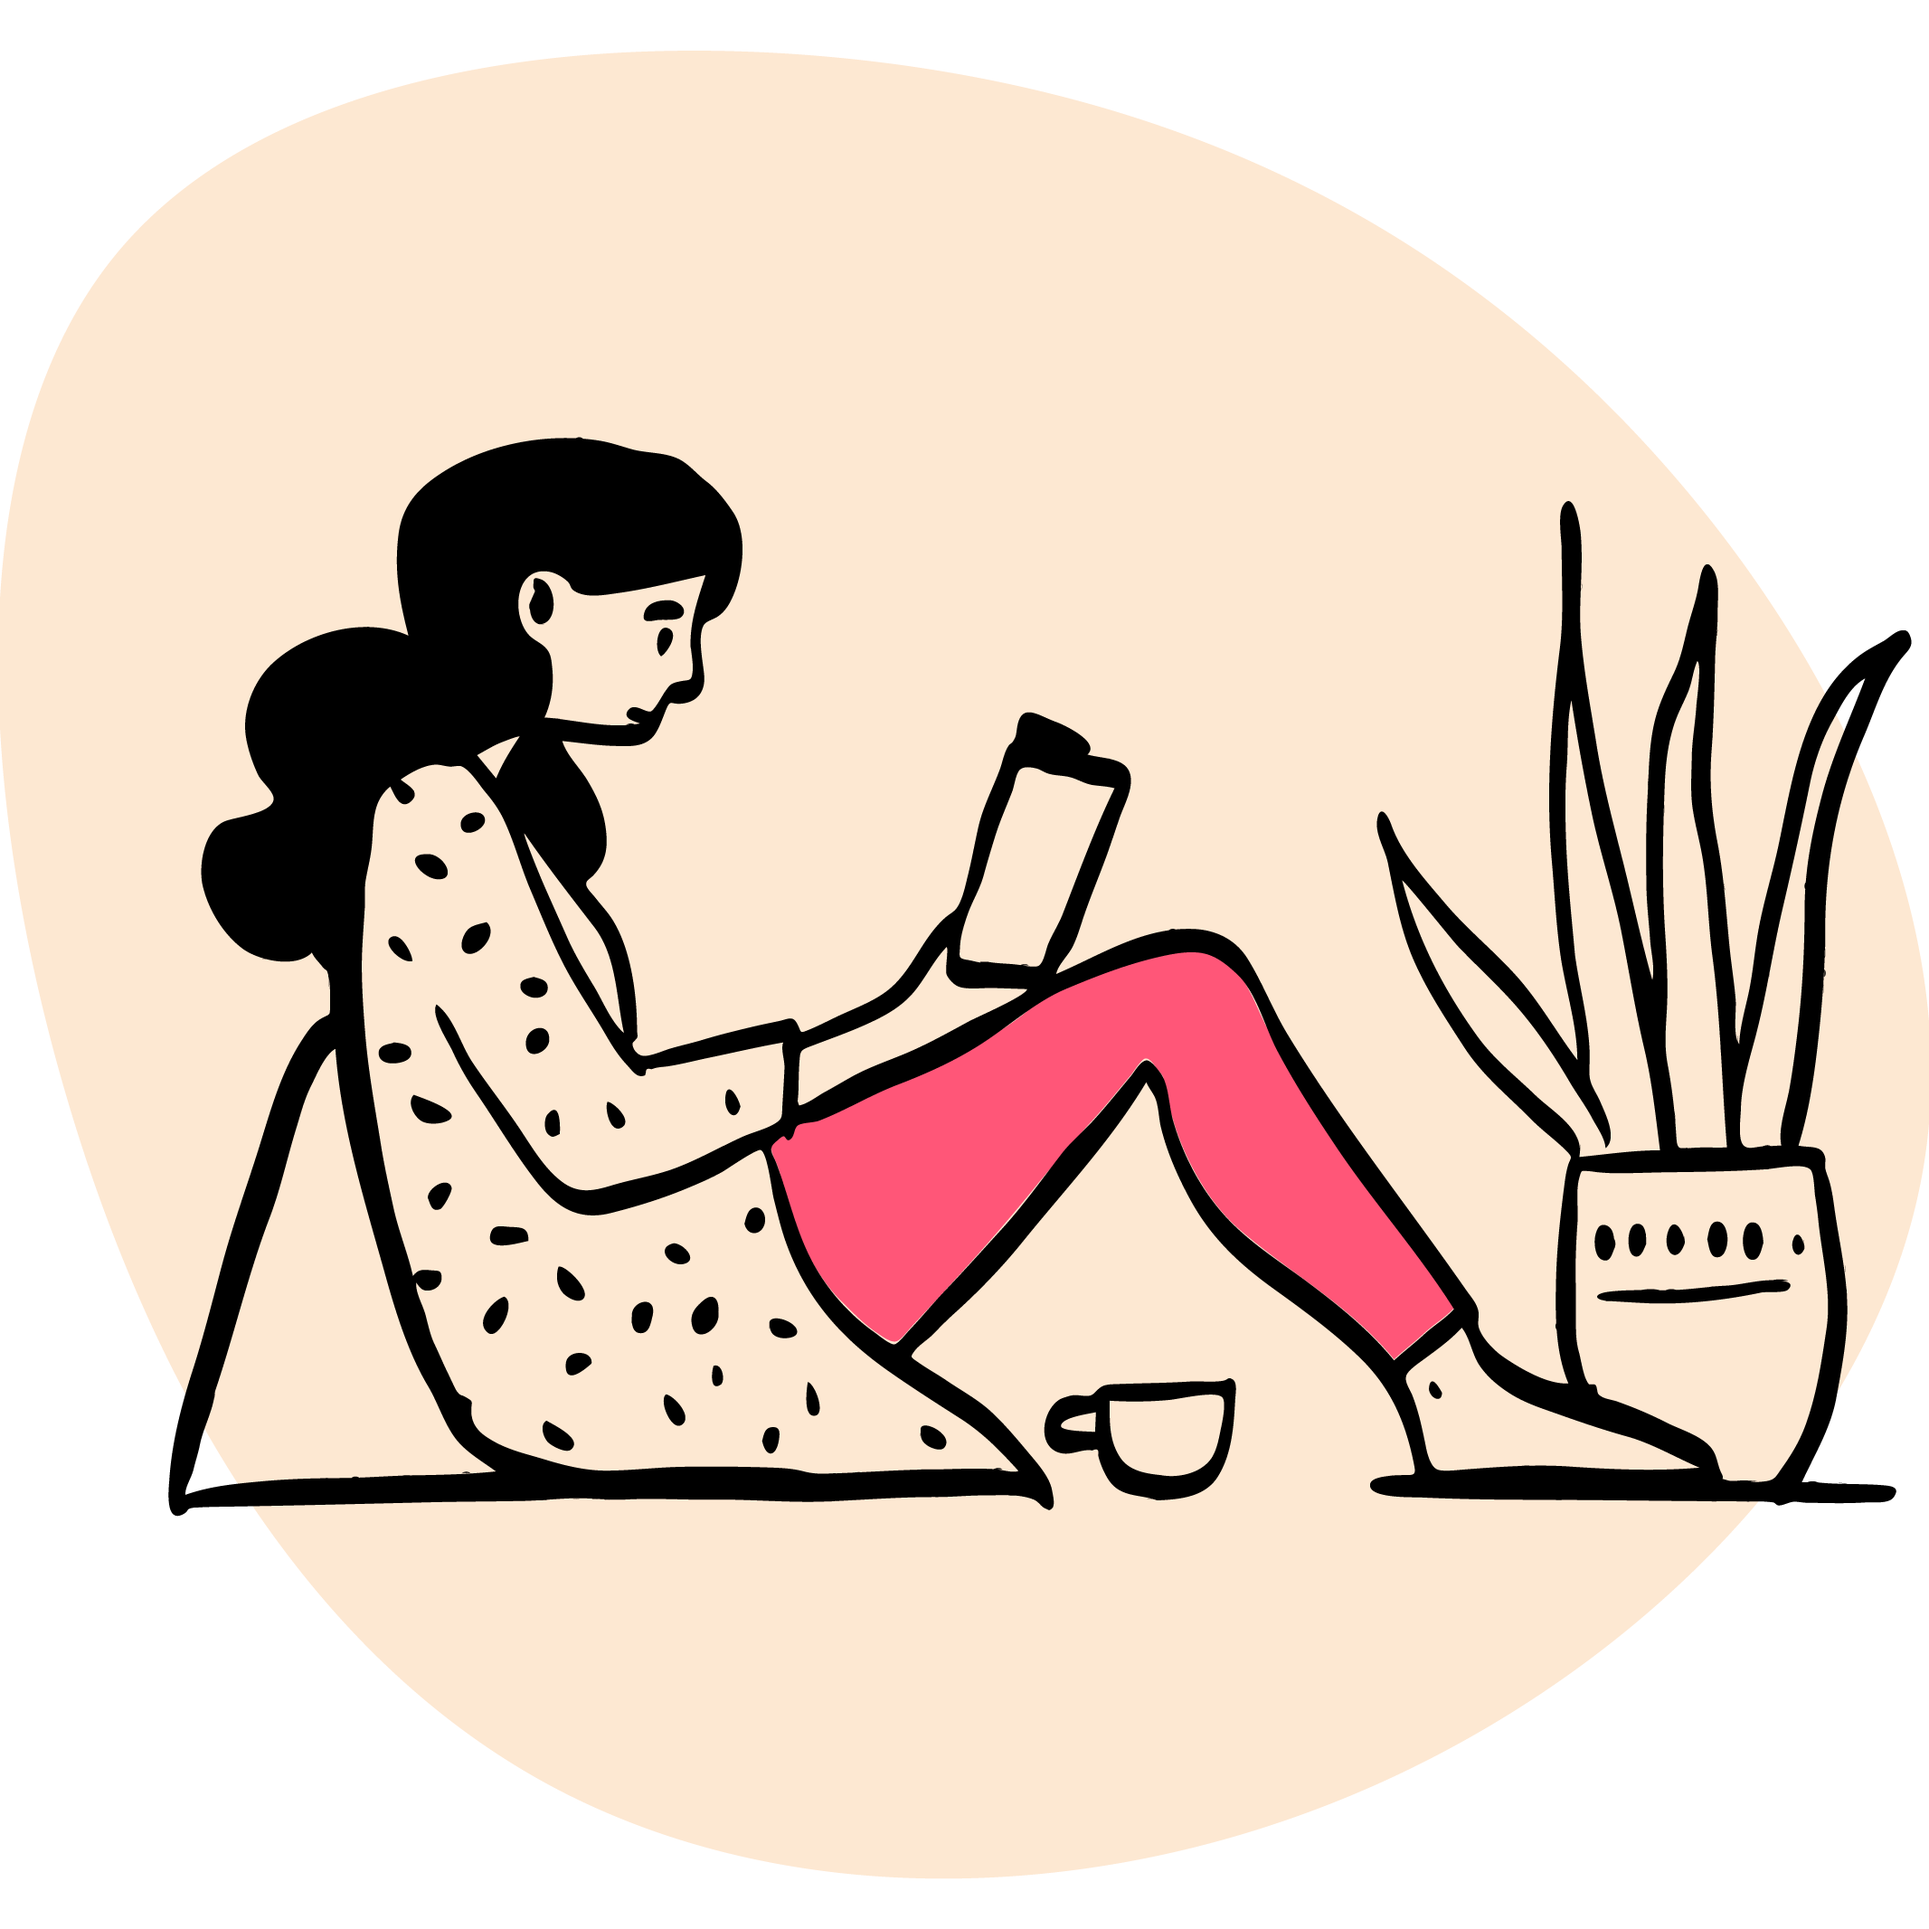
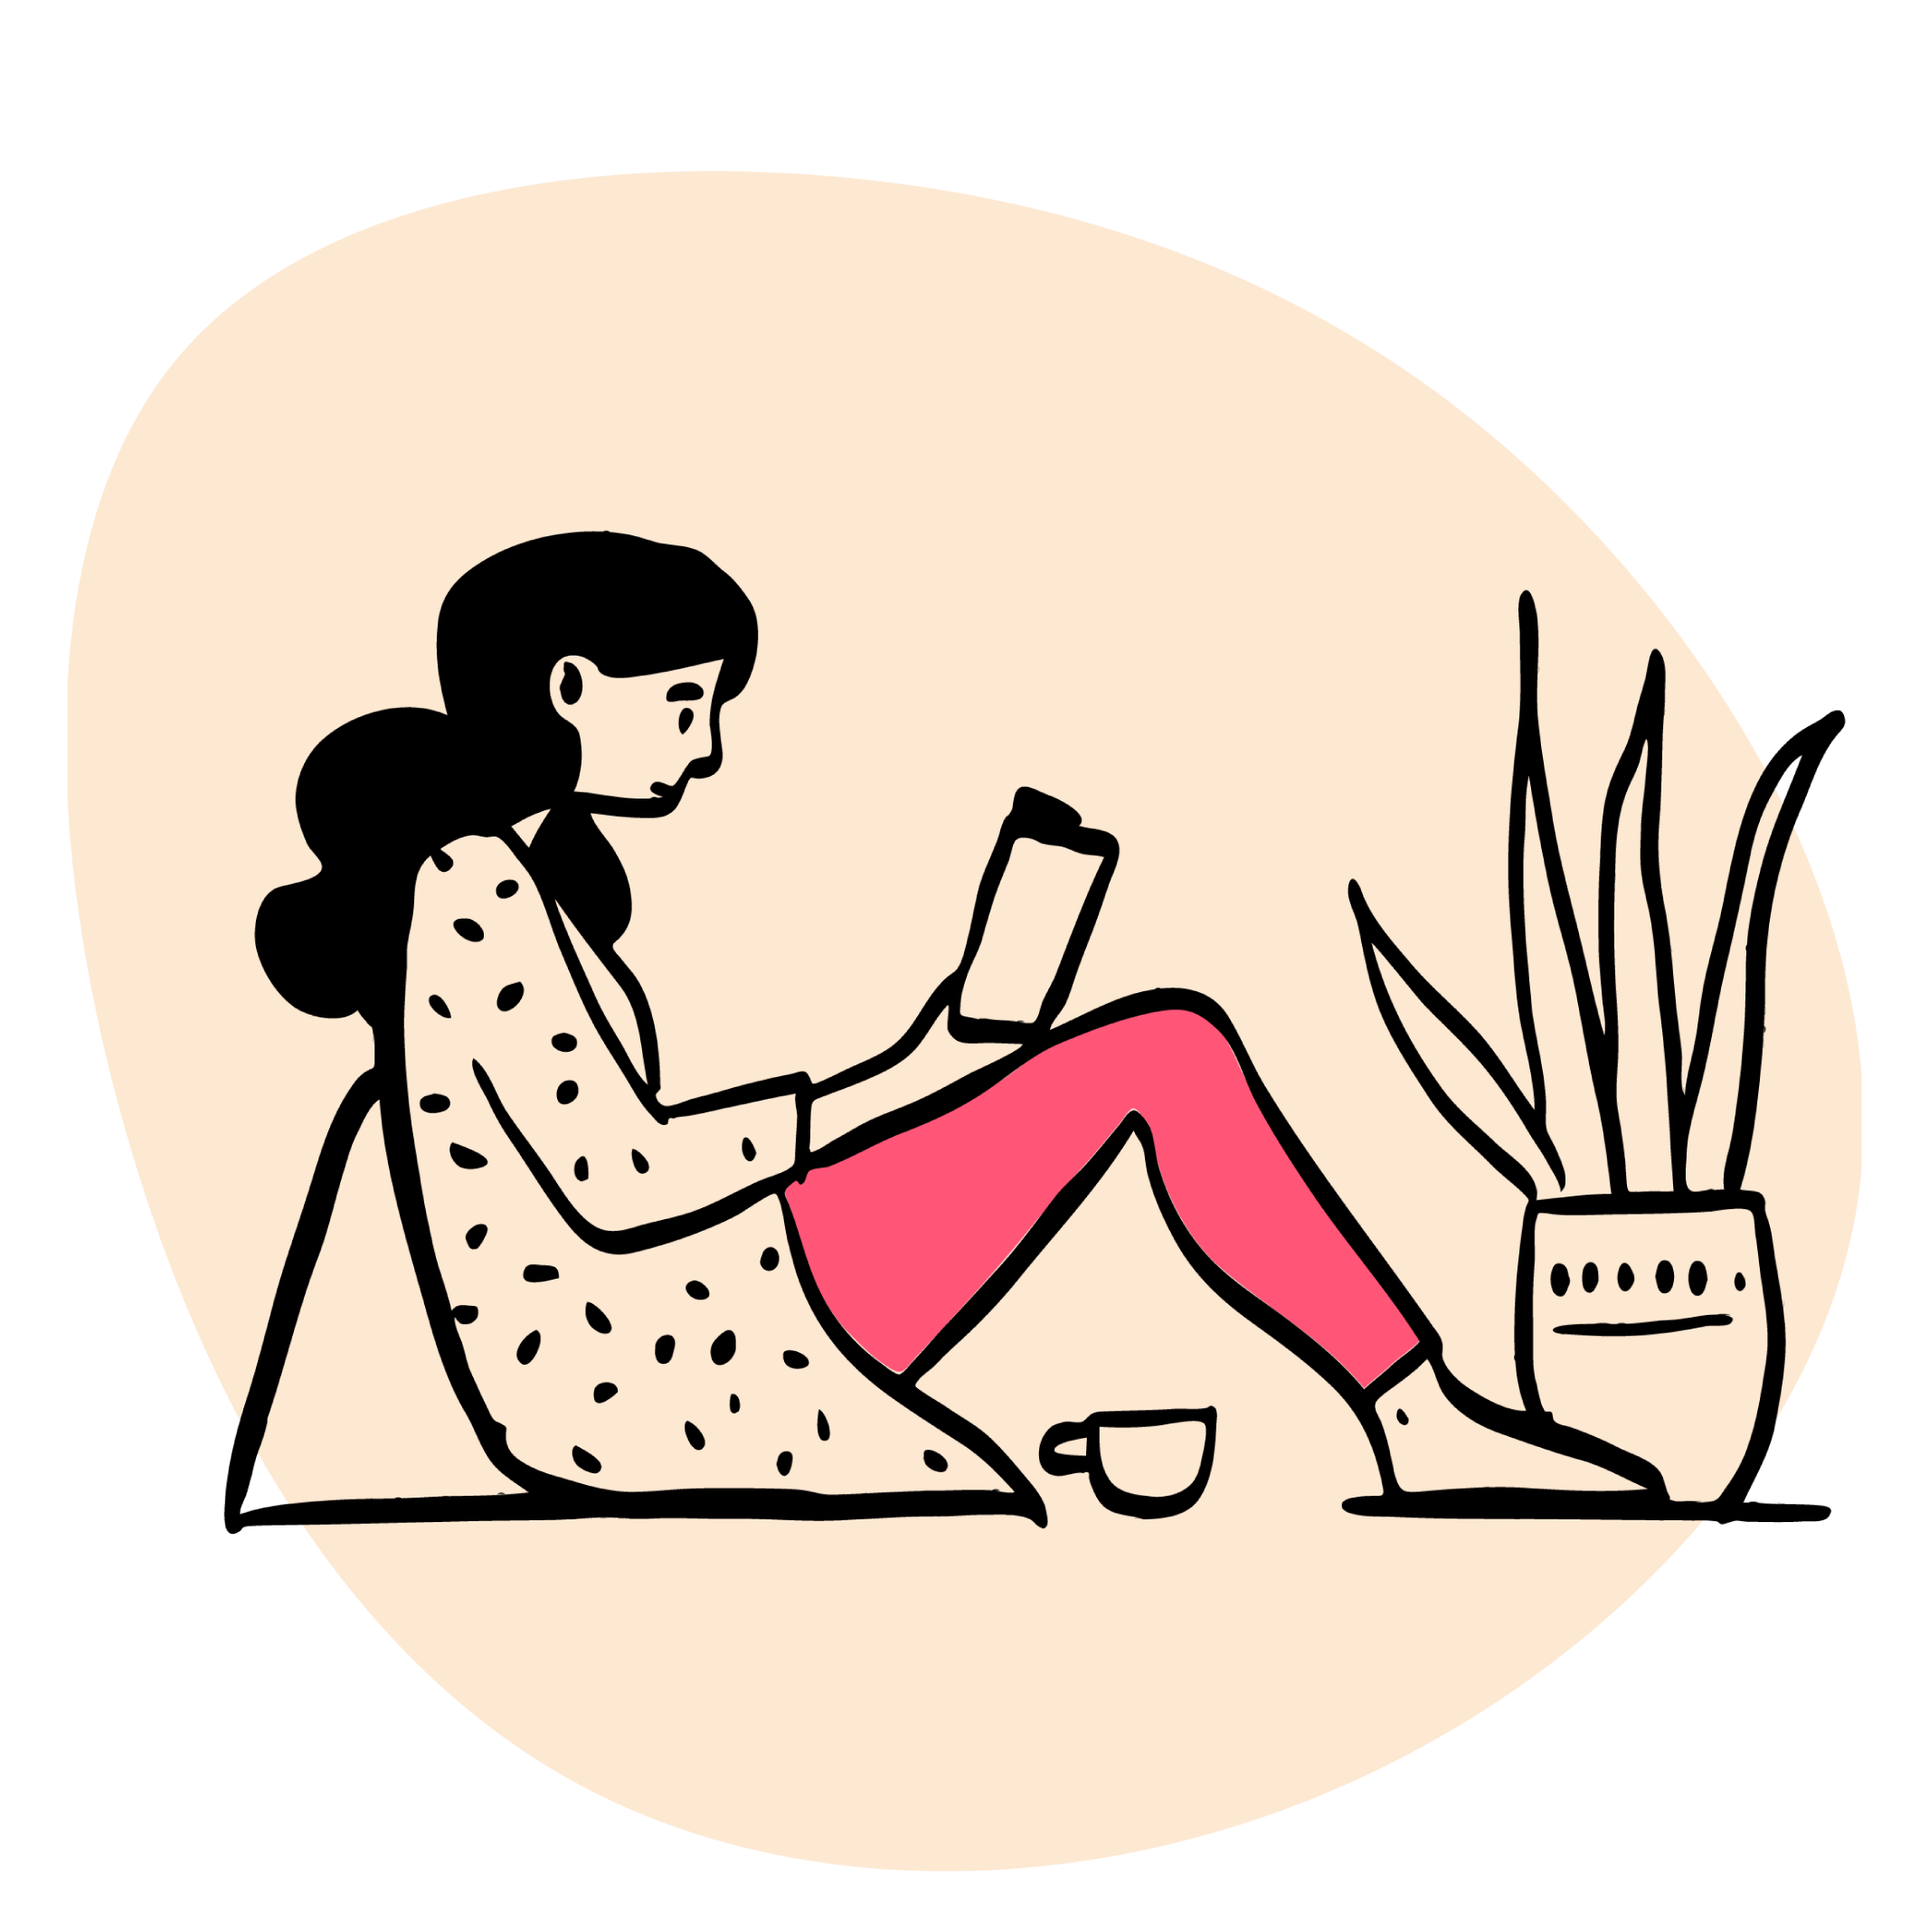
Version 3.2.0
- Added background images

diff --git a/src/styles/global.scss b/src/styles/global.scss
@@ -16,7 +16,18 @@ body {
   padding: 0;
   box-sizing: border-box;
   scroll-behavior: smooth;
-  background-color: $background-color;
+  background: url(./bg-mobile.png) no-repeat fixed bottom;
+  -webkit-background-size: 100% 100%;
+  -moz-background-size: cover;
+  -o-background-size: 100% 100%;
+  background-size: 100% 100%;
+  @include for-tablet-up {
+    background-image: url(./bg-tablet.png);
+  }
+  @include for-desktop-up {
+    background-image: url(./bg-desktop.png);
+  }
+
   ::selection {
     background: #fde5cd88; /* WebKit/Blink Browsers */
   }
@@ -167,12 +178,26 @@ blockquote::after {
 }
 
 .hero-image {
+  width: 260px;
+  height: auto;
+  @include for-tablet-up {
+    width: 460px;
+    height: auto;
+  }
+  @include for-desktop-up {
+    width: 512px;
+    height: auto;
+  }
+}
+
+.hero-image2 {
   width: 80%;
   min-width: 40vw;
   height: auto;
   @include for-desktop-up {
     min-width: 20vw;
-    width: 25vw;
+    width: auto;
+    min-height: 50vh;
   }
 }
 
@@ -181,4 +206,6 @@ blockquote::after {
   flex-direction: column;
   justify-content: center;
   align-items: center;
+  margin: 0;
+  padding: 0;
 }

diff --git a/src/components/layouts/layout.module.scss b/src/components/layouts/layout.module.scss
@@ -9,7 +9,7 @@
   max-width: 100%;
   display: grid;
   grid-template-rows: auto 1fr auto;
-  background-image: url(/images/background.svg);
+
   @include for-tablet-up {
     max-width: 80%;
     margin-left: 10%;

diff --git a/src/components/layouts/header/header.scss b/src/components/layouts/header/header.scss
@@ -123,7 +123,7 @@ header {
       margin-right: 16%;
     }
     @include for-desktop-up {
-      margin-right: 22%;
+      margin-right: 14%;
     }
     ul {
       list-style: none;
